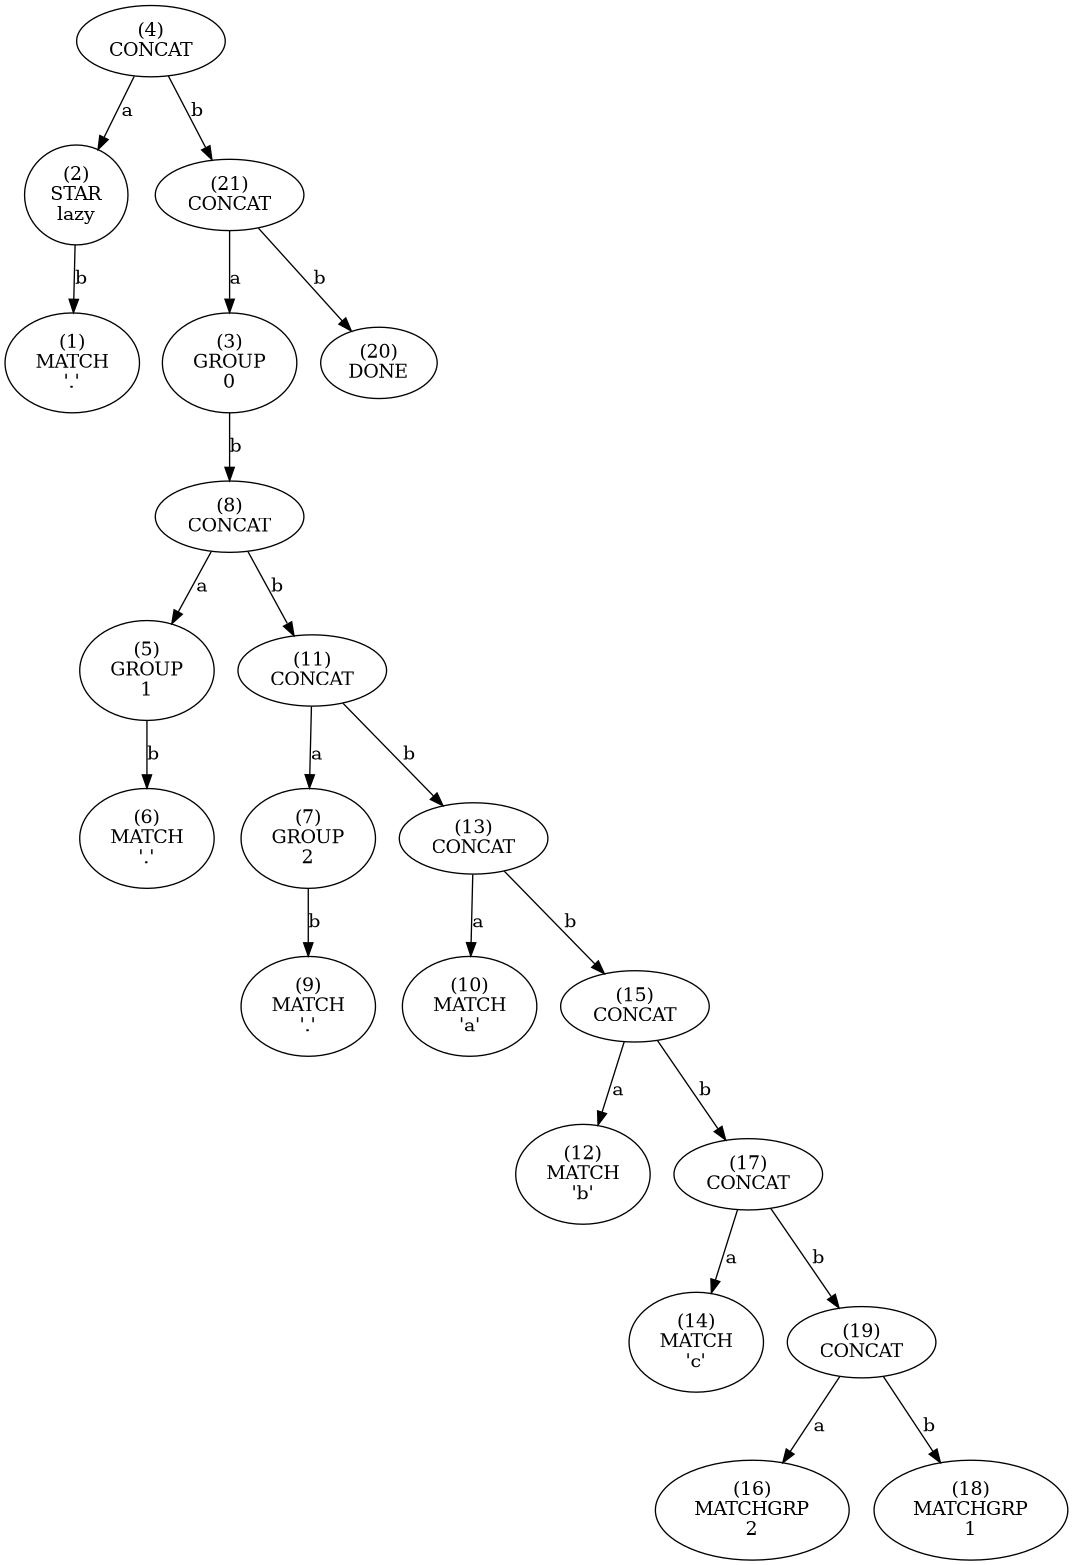
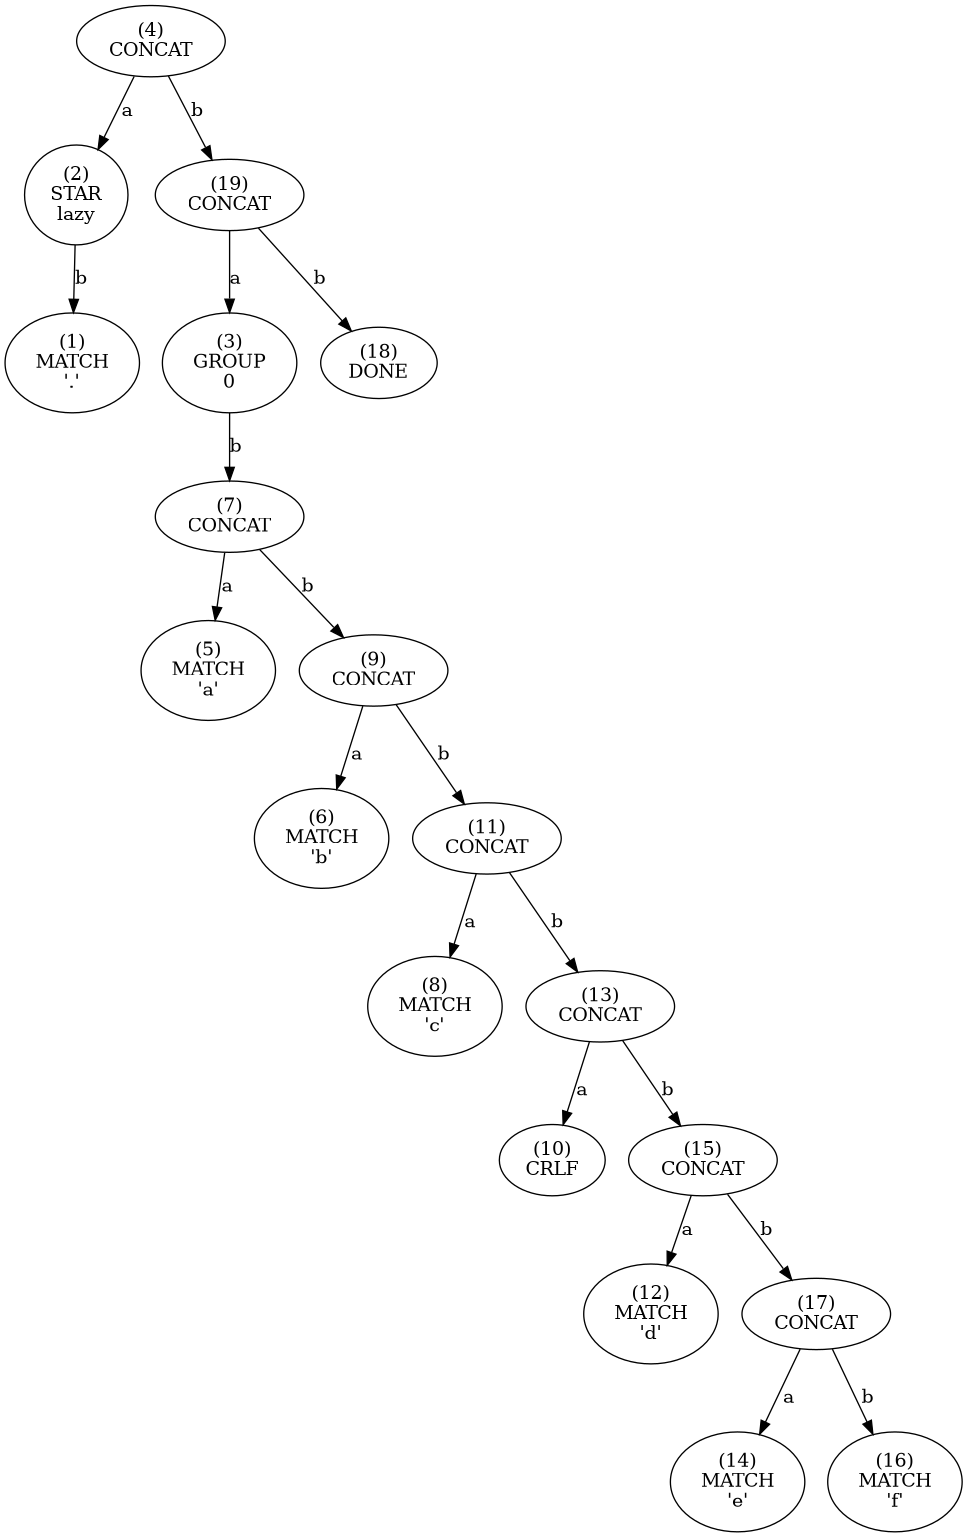
Added support for \R for CRLF or CR or LF matching.

Changed region(s): [[0.0, 0.0, 1.0, 0.9993], [0.2792, 0.1561, 0.3102, 0.1874]]

diff --git a/rele.c b/rele.c
@@ -36,6 +36,7 @@ struct re_match_t {
 
 enum {
     OP_NOP = 0, OP_CONCAT, OP_MATCH, OP_MATCHGRP, OP_DONE,
+    OP_CRLF,
     OP_ALTERNATE = '|',
     OP_PLUS = '+', OP_STAR = '*', OP_QUESTION = '?', OP_GROUP = '(',
     OP_BEGIN = '^', OP_END = '$', OP_MULT = '{',
@@ -532,8 +533,15 @@ struct rectx *re_compile(char *regex, uint32_t flags) {
                 } else {
                     last->ch[0] = *p;
                     if (*p == '\\') {
-                        last->ch[1] = *++p;
-                        if (!*p) goto fail;         // backslash on the end
+                        // Handle special cases....
+                        if (p[1] == 'R') {
+                            // This is a CRLF special...
+                            last->op = OP_CRLF;
+                            p++;
+                        } else {
+                            last->ch[1] = *++p;
+                            if (!*p) goto fail;         // backslash on the end
+                        }
                     }
                 }
         }
@@ -845,6 +853,24 @@ int re_match(struct rectx *ctx, char *p, int len, int flags) {
                     t->last = n;
                     continue;
 
+                // We always match a LF on either go around, but if not and we come from above then we must
+                // match a CR and go again. On the second time around if doesn't matter if we don't match.
+                case OP_CRLF:
+                    if (ch == 10) {
+                        t->last = n;
+                        t->n = n->parent;
+                        goto next;
+                    }
+                    if (t->last == n->parent) {
+                        if (ch == 13) {
+                            // Stay here for another go...
+                            t->last = n;
+                            goto next;
+                        }
+                        goto die;
+                    }
+                    goto parent;
+                    
                 // If we match we just go back up but let the next task run. If we
                 // fail then we die.
                 case OP_MATCH:
@@ -971,6 +997,7 @@ char *opmap(uint8_t op) {
         case OP_MATCHSET:   return "MATCHSET";
         case OP_MULT:       return "MULT";
         case OP_MATCHGRP:   return "MATCHGRP";
+        case OP_CRLF:       return "CRLF";
         default:            return "UNKNOWN";
     }
 }
@@ -1030,6 +1057,10 @@ void dump_dot(struct rectx *ctx, struct node *n, FILE *f) {
             GEND;
             goto bonly;
 
+        case OP_CRLF:
+            GEND;
+            return;
+
         case OP_PLUS:
         case OP_QUESTION:
         case OP_STAR:
@@ -1076,20 +1107,15 @@ int main(int argc, char *argv[]) {
     //struct rectx *ctx = re_compile("ab((.)(.))abc(\\d+)h", 0);
 
 //    struct rectx *ctx = re_compile("^(a(bc))*d", 0);
-    struct rectx *ctx = re_compile("(.)(.)abc\\{2}\\1", 0);
+    struct rectx *ctx = re_compile("abc\\Rdef", 0);
     if (!ctx) {
         fprintf(stderr, "no compile\n");
         exit(1);
     }
     
     export_tree(ctx, "tree.dot");
-
-    int x;
-    for (int i=0; i < 1000; i++) {
-        x = re_match(ctx, "xyabcyx", 0, F_KEEP_TASKS);
-        x = re_match(ctx, "xyabcyx", 0, F_KEEP_TASKS);
-        x = re_match(ctx, "xyabcyx", 0, F_KEEP_TASKS);
-    }
+ 
+    int x = re_match(ctx, "abc\r\ndef", 0, F_KEEP_TASKS);
     if (!ctx->done) {
         fprintf(stderr, "no match\n");
         exit(1);
